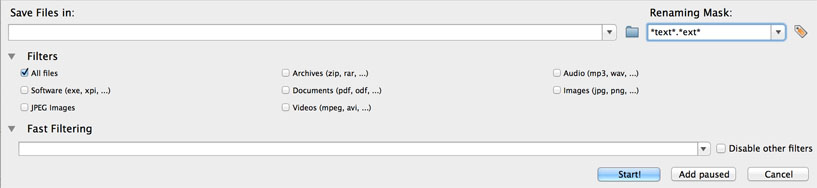
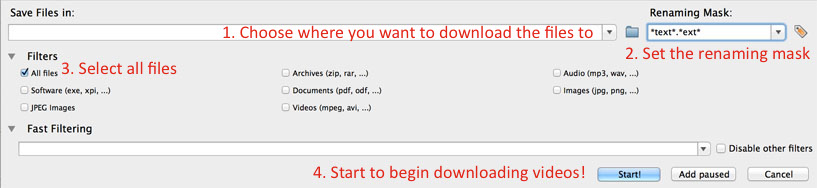
Finalised readme, annotated screenshot

diff --git a/README.md b/README.md
@@ -11,47 +11,31 @@ A modification of [Brendan Weibrecht's](https://github.com/ZimbiX) Echo360 JS do
 javascript:function getScript(url,success){var head=document.getElementsByTagName('head')[0],done=!1,script=document.createElement('script');script.src=url,script.onload=script.onreadystatechange=function(){done||this.readyState&&'loaded'!=this.readyState&&'complete'!=this.readyState||(done=!0,success())},head.appendChild(script)}getScript('https://code.jquery.com/jquery-1.11.2.min.js',function(){getScript('https://raw.githubusercontent.com/mdchia/echo360-download-tool/master/echo360-download-tool.js',function(){})});
 ```
 
-![Make a bookmark](/setup-img/step2a.jpg)
+![Make a bookmark screenshot](/setup-img/step2a.jpg)
 
-![Add code to location field](/setup-img/step2b.jpg)
+![Add code to location field screenshot](/setup-img/step2b.jpg)
 
 ## Usage
 
 1. Access the Echo360 page for your course.
 2. Right-click the center of the page and click "This Frame" > "Show only this frame"
 
+![Show only this frame screenshot](/setup-img/step3a.jpg)
+
 1. Click the bookmark you made and wait until it gives you an alert.
 
-The basic idea is as follows:
+![Ready to download screenshot](/setup-img/step3b.jpg)
 
-1. Use this utility to generate a webpage with a list of named links to the video files, opened in Firefox
-2. Use DownThemAll! with renaming mask `*text*.*ext*` to download the videos with the correct filenames
+1. Right-click the page and select "DownThemAll!..."
+
+![DTA screenshot](/setup-img/step4.jpg)
+
+1. Use DownThemAll! with renaming mask `*text*.*ext*` to download the videos with the correct filenames (see screenshot below)
+
+![DTA config screenshot](/setup-img/step5.jpg)
 
 ## Notes
 
 - If you close the Echo360 page or click on a link in that tab that takes you to a new page, you'll have to start again
 - You may have to scroll all the way to the bottom of the course list if you want to download the earliest echoes
 - If you want to run this again to download only new videos, set the destination in DownThemAll! to that which contains the first set of videos, and when it starts, will prompt you what to do -- just choose to automatically skip all existing files for the current session
-
-### Usage
-
-- Open Firefox and browse to the course's **Echo360 page**
-- **Right-click** in the middle of the page, and select **This Frame** -> **Show Only This Frame**
-- **Right-click** in the middle of the page, and select **Inspect Element**
-- In the panel that appears, click the **Console** tab at the top
-- Now we need to load jQuery:
-
-  - In a new tab, browse to: <http://code.jquery.com/jquery-1.11.2.min.js>
-  - **Right-click** in the middle of the page, and select **Select All**
-  - **Right-click** in the middle of the page, and select **Copy**
-  - Return to the **Echo360** tab
-  - **Right-click** in the **thin box** at the bottom, select **Paste**, then press the **Enter** key
-  - The word `true` should appear at the bottom if it worked
-
-- Now we need to run this utility script:
-
-  - Repeat the previous instructions, but with this page: <https://raw.githubusercontent.com/ZimbiX/echo360-download-tool/master/echo360-download-tool.js>
-
-- After the script has finished clicking on the videos collecting information, the page should be replaced with a list of named links to the video files
-
-  - You can now use DownThemAll! as per the instructions in the _Notes_ section above the _JavaScript version_ section
